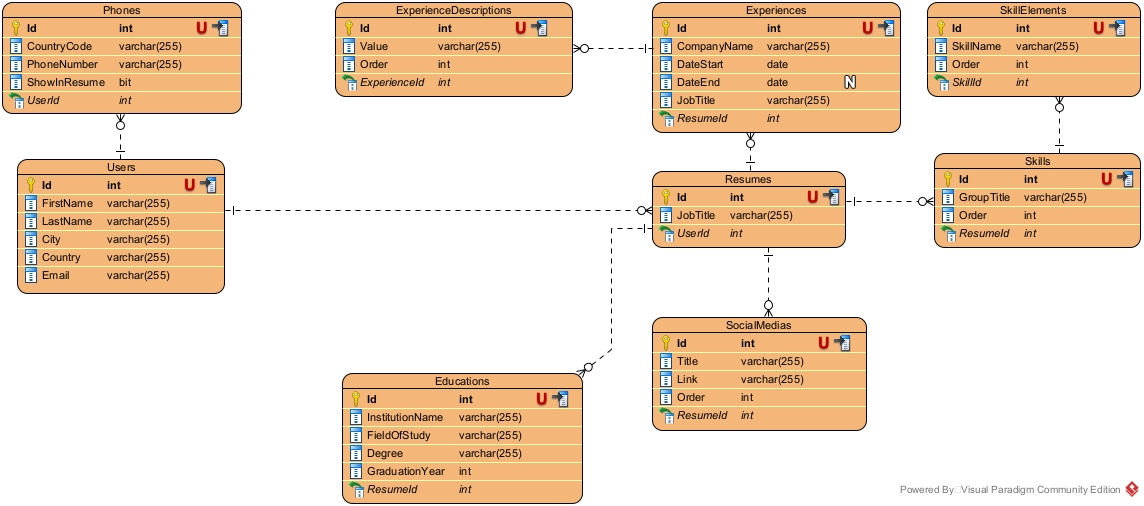
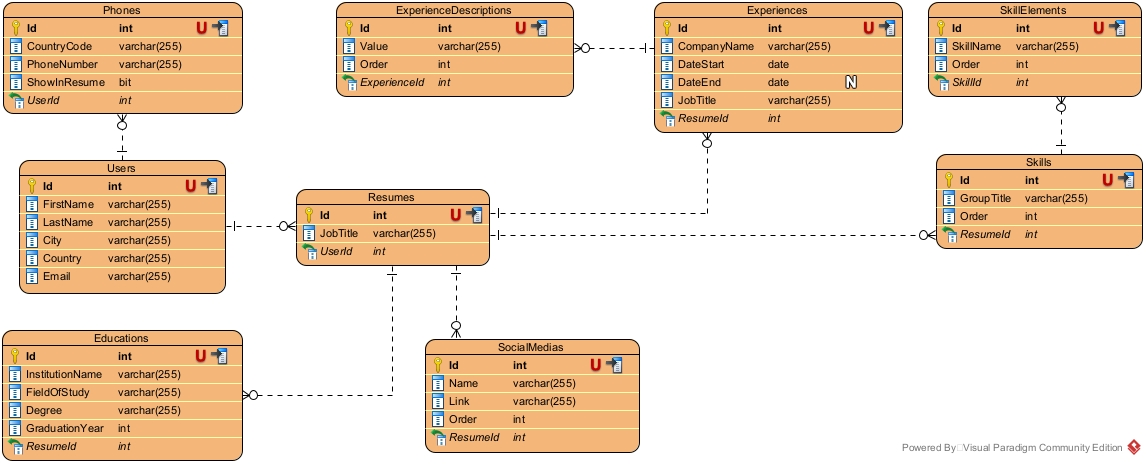
Refactor the education and social media entities.

diff --git a/ResumeMakerApi/ResumeMakerApi/Migrations/20260703182240_RefactorTheSocialMediasTable.cs b/ResumeMakerApi/ResumeMakerApi/Migrations/20260703182240_RefactorTheSocialMediasTable.cs
@@ -1,0 +1,28 @@
+using Microsoft.EntityFrameworkCore.Migrations;
+
+#nullable disable
+
+namespace ResumeMakerApi.Migrations
+{
+    /// <inheritdoc />
+    public partial class RefactorTheSocialMediasTable : Migration
+    {
+        /// <inheritdoc />
+        protected override void Up(MigrationBuilder migrationBuilder)
+        {
+            migrationBuilder.RenameColumn(
+                name: "Title",
+                table: "SocialMedias",
+                newName: "Name");
+        }
+
+        /// <inheritdoc />
+        protected override void Down(MigrationBuilder migrationBuilder)
+        {
+            migrationBuilder.RenameColumn(
+                name: "Name",
+                table: "SocialMedias",
+                newName: "Title");
+        }
+    }
+}

diff --git a/ResumeMakerApi/ResumeMakerApi/Migrations/20260703181101_RefactorTheEducationTable.cs b/ResumeMakerApi/ResumeMakerApi/Migrations/20260703181101_RefactorTheEducationTable.cs
@@ -1,0 +1,22 @@
+using Microsoft.EntityFrameworkCore.Migrations;
+
+#nullable disable
+
+namespace ResumeMakerApi.Migrations
+{
+    /// <inheritdoc />
+    public partial class RefactorTheEducationTable : Migration
+    {
+        /// <inheritdoc />
+        protected override void Up(MigrationBuilder migrationBuilder)
+        {
+
+        }
+
+        /// <inheritdoc />
+        protected override void Down(MigrationBuilder migrationBuilder)
+        {
+
+        }
+    }
+}

diff --git a/ResumeMakerApi/ResumeMakerApi/Source/Entities/SocialMedia.cs b/ResumeMakerApi/ResumeMakerApi/Source/Entities/SocialMedia.cs
@@ -1,13 +1,16 @@
-using ResumeMakerApi.Source.Entities;
-
-namespace ResumeMakerApi.Source.Entity;
+namespace ResumeMakerApi.Source.Entities;
 
 public class SocialMedia
 {
     public int Id { get; set; }
-    public string Title { get; set; } = string.Empty;
+
+    public string Name { get; set; } = string.Empty;
+
     public string Link { get; set; } = string.Empty;
+
     public int Order { get; set; }
+
     public int ResumeId { get; set; }
-    public Resume Resume { get; set; } = null!;
+
+    public Resume Resume { get; set; } = new();
 }

diff --git a/ResumeMakerApi/ResumeMakerApi/Source/Entities/Education.cs b/ResumeMakerApi/ResumeMakerApi/Source/Entities/Education.cs
@@ -1,14 +1,18 @@
-using ResumeMakerApi.Source.Entities;
-
-namespace ResumeMakerApi.Source.Entity;
+namespace ResumeMakerApi.Source.Entities;
 
 public class Education
 {
     public int Id {  get; set; }
+
     public string InstitutionName { get; set; } = string.Empty;
+
     public string FieldOfStudy { get; set; } = string.Empty;
+
     public string Degree { get; set; } = string.Empty;
+
     public int GraduationYear { get; set; }
+
     public int ResumeId { get; set; }
-    public Resume Resume { get; set; } = null!;
+
+    public Resume Resume { get; set; } = new();
 }

diff --git a/ResumeMakerApi/ResumeMakerApi/Source/Entities/Resume.cs b/ResumeMakerApi/ResumeMakerApi/Source/Entities/Resume.cs
@@ -12,9 +12,9 @@ public class Resume
 
     public User User { get; set; } = new();
 
-    public List<SocialMedia> SocialMedias { get; set; } = [];
-    
     public List<Education> Educations { get; set; } = [];
+
+    public List<SocialMedia> SocialMedias { get; set; } = [];
     
     public List<Experience> Experiences { get; set; } = [];
     